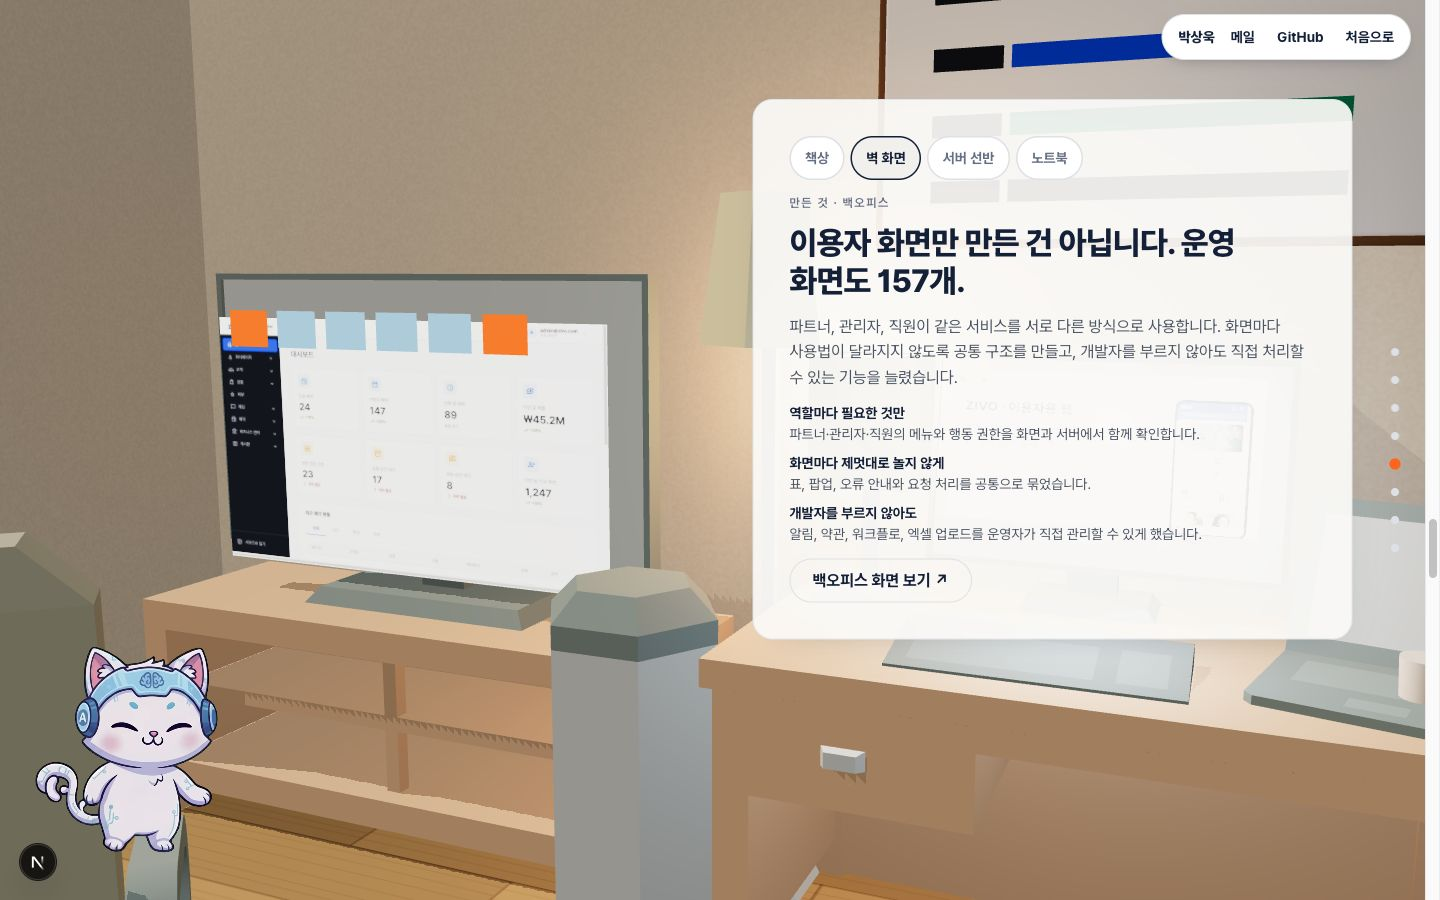
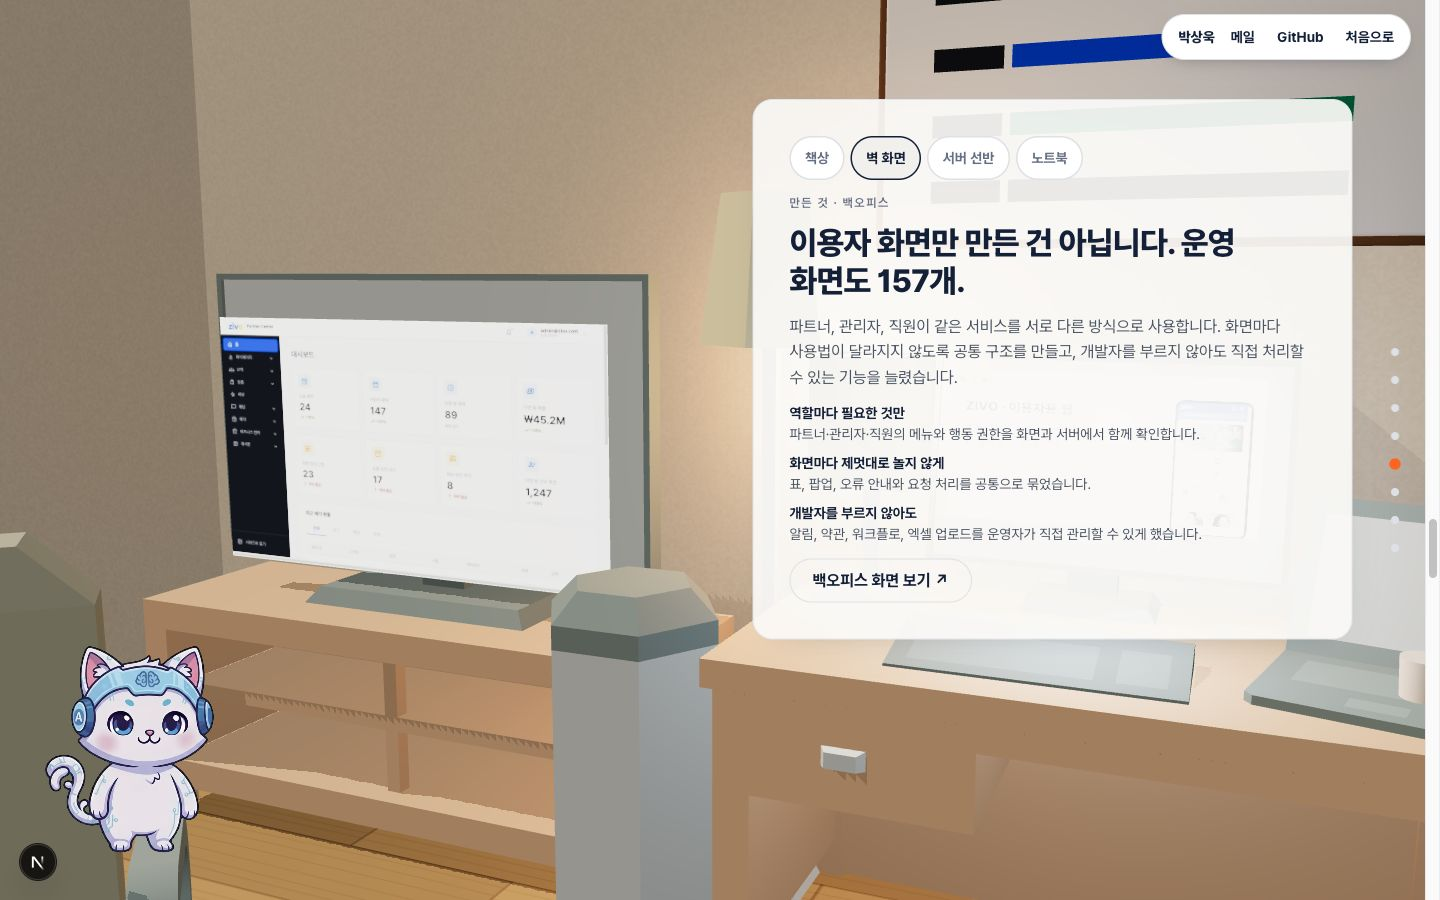
design: drop abstract TV tiles now that the real dashboard capture renders
Claude-Session: https://claude.ai/code/session_015BZdvMm4Hd3KyN1K88tamH

Changed region(s): [[0.0, 0.7156, 0.1562, 0.9644], [0.1562, 0.3422, 0.375, 0.4044]]

diff --git a/experience/scene/Room.tsx b/experience/scene/Room.tsx
@@ -141,40 +141,6 @@ function WallBoard({ mats }: { mats: ReturnType<typeof useMats> }) {
   );
 }
 
-/** TV 화면 위 타일: 백오피스 157 화면. studio 투어 2번째 정거장에서 켜진다 */
-function TvTiles() {
-  const tiles = useMemo(() => {
-    const arr: [number, number][] = [];
-    for (let r = 0; r < 4; r++) for (let c = 0; c < 7; c++) arr.push([c, r]);
-    return arr;
-  }, []);
-  const grp = useRef<THREE.Group>(null);
-  const invalidate = useThree((st) => st.invalidate);
-  const reduced = useExperience((s) => s.caps.reducedMotion);
-  useFrame(() => {
-    const t = progress.locals.studio;
-    const k = Math.min(1, Math.max(0, (t - 0.28) / 0.22));
-    let moving = false;
-    grp.current?.children.forEach((m, i) => {
-      const target = i / tiles.length < k ? 1 : 0.001;
-      const mesh = m as THREE.Mesh;
-      mesh.scale.setScalar(reduced ? target : THREE.MathUtils.damp(mesh.scale.x, target, 8, 0.016));
-      if (Math.abs(mesh.scale.x - target) > 0.002) moving = true;
-    });
-    if (moving) invalidate();
-  });
-  return (
-    <group ref={grp} position={[-0.5, 0.26, 0]}>
-      {tiles.map(([c, r], i) => (
-        <mesh key={i} position={[c * 0.165, -r * 0.14, 0]} scale={0.001}>
-          <planeGeometry args={[0.13, 0.1]} />
-          <meshStandardMaterial color={i % 5 === 0 ? "#ff641e" : "#8fc3e6"} emissive={i % 5 === 0 ? "#ff641e" : "#8fc3e6"} emissiveIntensity={0.7} />
-        </mesh>
-      ))}
-    </group>
-  );
-}
-
 /**
  * 벽 TV 화면: 실제 백오피스 캡처(public/screens/zivo-admin.jpg). 투어 2번째 정거장 근처에서 밝아진다.
  * 이미지가 없거나 실패하면 기존 타일 연출만 남는다 (콘솔 에러 없이).
@@ -413,9 +379,6 @@ export function Room({ onReady }: { onReady: () => void }) {
         <group position={[-2.1, 0.62, -2.28]}>
           <Model name="televisionModern" scale={S} />
           <TvScreen />
-          <group position={[0, 0.5, 0.13]}>
-            <TvTiles />
-          </group>
         </group>
         <Model name="lampRoundFloor" position={[-1.25, 0, -2.2]} scale={S} />
         <Model name="trashcan" position={[-1.3, 0, -1.9]} scale={S} />

diff --git a/docs/fable-experiment/10-external-review.md b/docs/fable-experiment/10-external-review.md
@@ -194,7 +194,7 @@
 | 11 아잉과 방의 조형 언어 | 유지 | 아잉은 사용자가 준 캐릭터. 방은 저폴리 가구 + 부드러운 그림자로 맞춤. 재생성은 예산·정체성 문제로 보류 |
 | 12 패널이 3D 를 가림 · 모바일 3D 비용 | 부분 반영 | 모바일 dpr 1·그림자 없음·demand 렌더(정지 시 GPU 0). saveData 는 정적 배경. 정적 이미지 대체는 보류 |
 | 13 경력 reveal·카운트업·카드 stagger 삭제 | 유지 | spec §5 "ranking board" 연출. 비용이 거의 없고 reduced-motion 이면 즉시 최종 상태 |
-| 14 TV 타일·서버 LED 가 추상적 | 보류 | 실제 화면 캡처를 텍스처로 넣는 방향에 동의. 다음 라운드 |
+| 14 TV 타일·서버 LED 가 추상적 | 반영 | 실제 ZIVO 백오피스·이용자용 웹 캡처를 3D TV·모니터 텍스처로. 추상 타일 연출은 제거 |
 | 15 Safari HEVC 알파 미검증 | 반영 | 첫 프레임 모서리 픽셀 알파 검사 → 불투명이면 즉시 WebP |
 | 16 canplaythrough 무한 대기 | 반영 (버그) | 6초 타임아웃: 데이터 있으면 시작, 없으면 WebP |
 | 17 3D 청크 로드 실패 미포착 | 반영 (버그) | SceneBoundary 를 dynamic import 바깥으로 |
